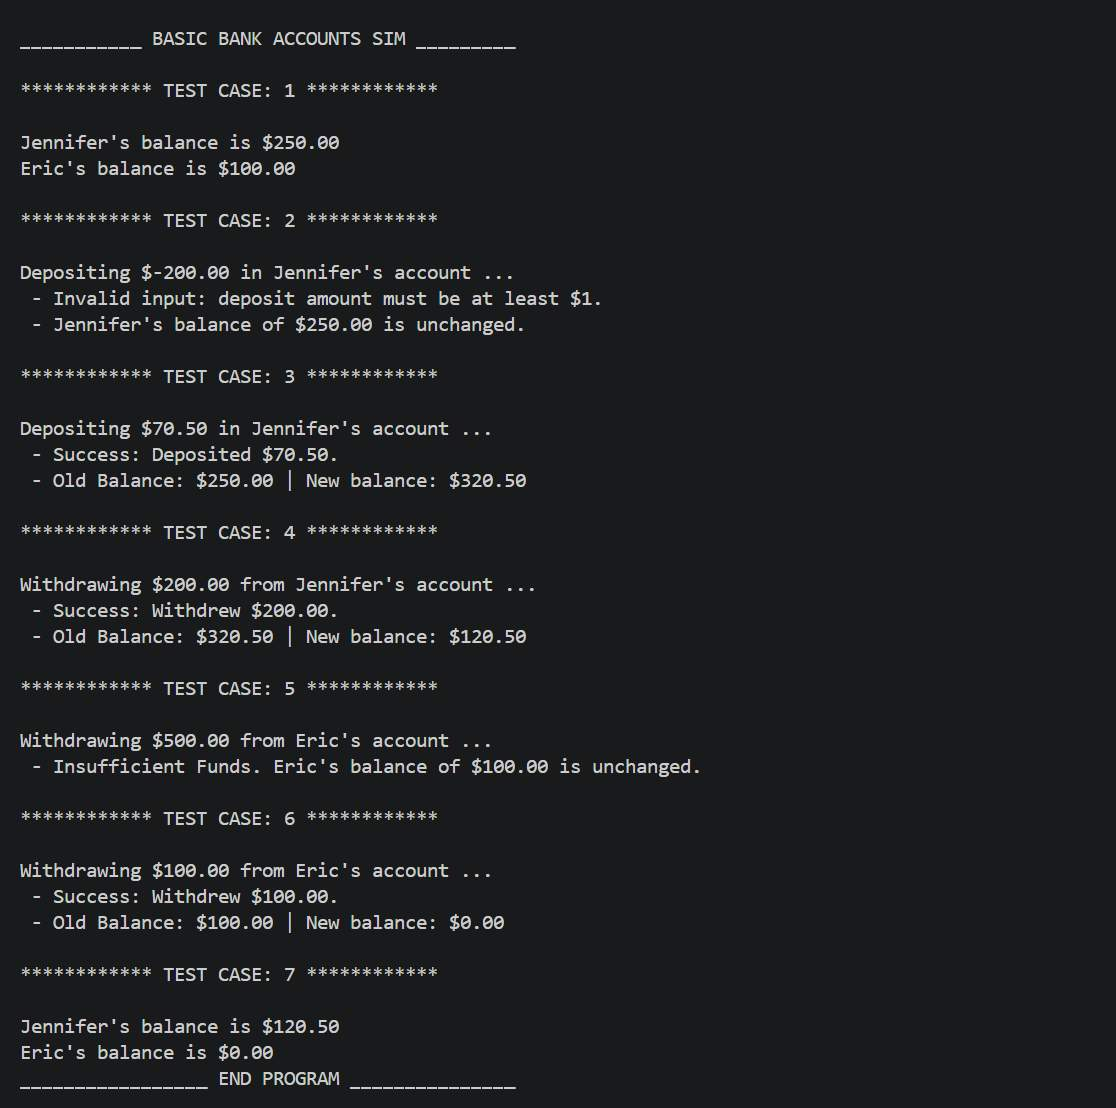
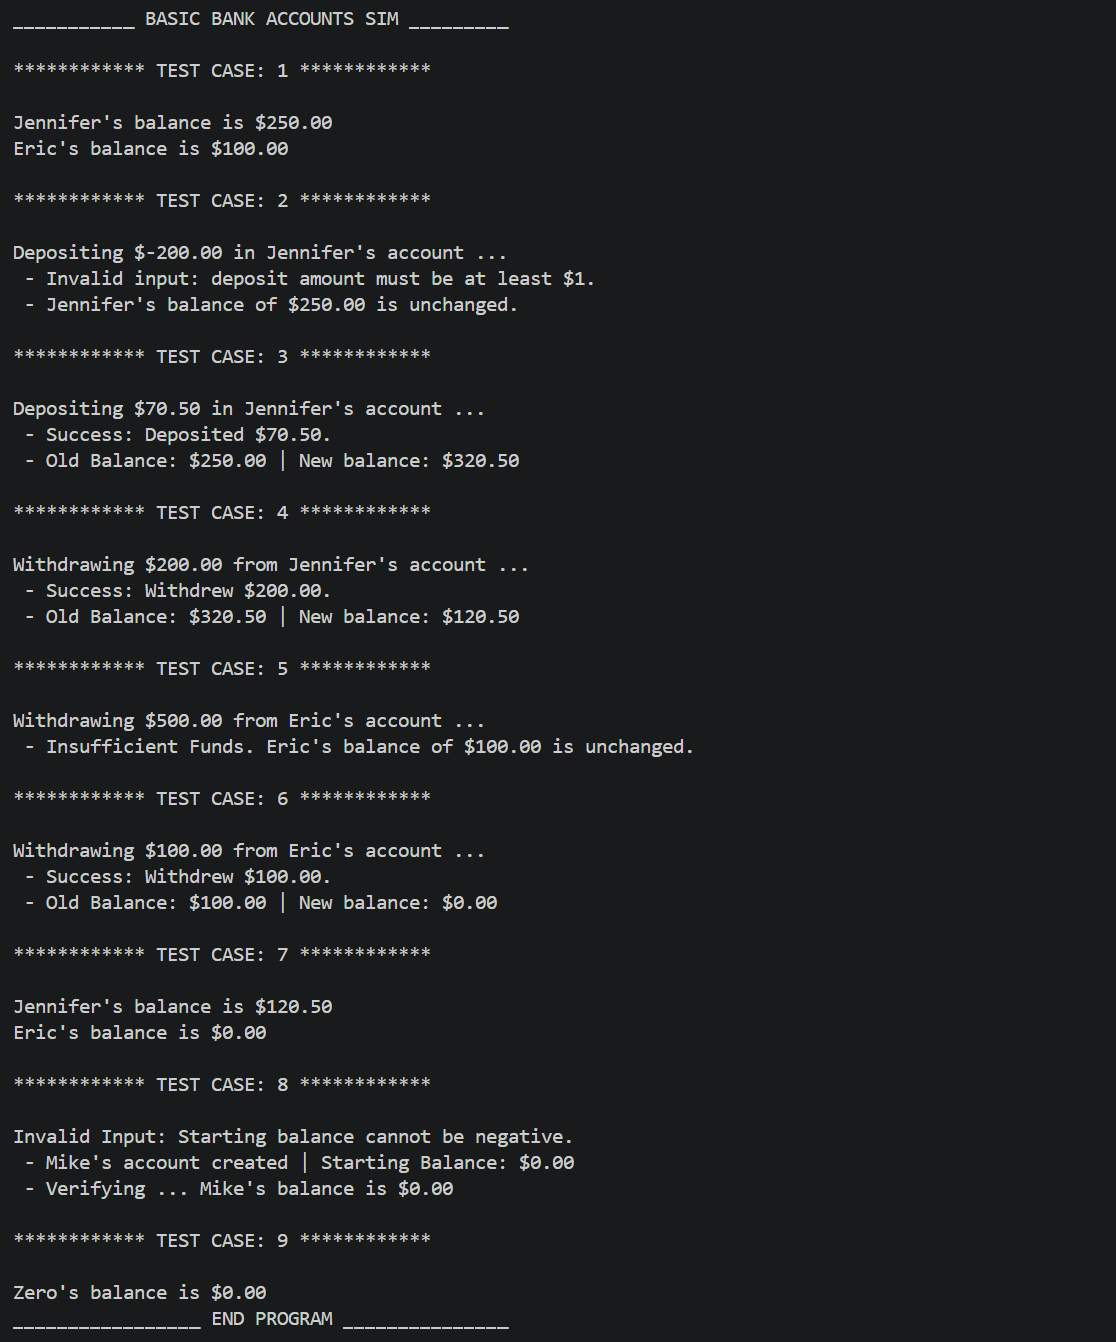
feat(courses/CIS251__Cpp): wk 8 assmt BankAccount: finalize and submit

Changed region(s): [[0.0, 0.0, 0.6093, 0.8899], [0.0, 0.9206, 0.457, 1.0]]

diff --git a/courses/Semester_1_Fall_26/CIS251__Cpp_Programming/Week_08/06__Assignments/Programming-Assignment/106__BankAccountSim-FINAL.cpp b/courses/Semester_1_Fall_26/CIS251__Cpp_Programming/Week_08/06__Assignments/Programming-Assignment/106__BankAccountSim-FINAL.cpp
@@ -22,14 +22,17 @@
  * @version 1.06
  *
  * @par Notes
- * -
+ * - Uses hard-coded transaction values for testing.
+ * - Negative opening balances are rejected and set to zero.
+ * - Does not implement authentication, an interactive ATM menu, or
+ *   transaction history; those are beyond the assignment scope.
  *
  * @par Lessons Learned
- * -
- *
- * @note Uses hard-coded transaction values for testing; does not implement
- *       authentication, an interactive ATM menu, or transaction history,
- *       as those are beyond the scope of the assignment.
+ * - A constructor cannot prevent object creation by returning early;
+ *   invalid initialization must either be corrected, throw an exception,
+ *   or be handled by the caller.
+ * - Keep user-interface/menu logic separate from account behavior so the
+ *   BankAccount class remains focused on encapsulation and balance rules.
  *
  * @see https://github.com/codewizard13
  */
@@ -63,23 +66,30 @@ public:
    *
    * @param account_holder Name of the account holder.
    * @param balance Opening balance in USD.
-   * @warning A negative opening balance is currently accepted.
+   * @note A negative opening balance is rejected and set to zero.
    */
   BankAccount(string account_holder, double balance)
   {
+
+    this->account_holder = account_holder;
+
+    // Only allow non-negative starting balance
     if (balance < 0)
     {
+      this->balance = 0.0;
       cout << "Invalid Input: Starting balance cannot be negative.\n";
-      return;
+      cout << " - " << this->account_holder << "'s account created | Starting Balance: $0.00\n";
     }
-    this->account_holder = account_holder;
-    this->balance = balance;
+    else
+    {
+      this->balance = balance;
+    }
   }
 
   /**
-   * @brief Gets the account holder's name
+   * @brief Gets the account holder's name.
    *
-   * @return The account holder's name
+   * @return The account holder's name.
    */
   string getAccountHolder()
   {
@@ -225,7 +235,19 @@ int main()
   eric_acct.showBalance();
 
   // TEST CASE 8: Negative starting balance
+  cout << "\n************ TEST CASE: 8 ************\n\n";
   BankAccount mike_acct("Mike", -10);
+
+  // Get balance - it should be zero
+  cout << " - Verifying ... ";
+  mike_acct.showBalance();
+
+  // TEST CASE 9: Zero dollar starting balance
+  cout << "\n************ TEST CASE: 9 ************\n\n";
+  BankAccount zero_acct("Zero", 0);
+
+  // Get balance - it should be zero
+  zero_acct.showBalance();
 
   cout << "_________________ END PROGRAM _______________\n\n";
 

diff --git a/courses/Semester_1_Fall_26/CIS251__Cpp_Programming/Week_08/06__Assignments/Programming-Assignment/04__AI-Assistance-Log.md b/courses/Semester_1_Fall_26/CIS251__Cpp_Programming/Week_08/06__Assignments/Programming-Assignment/04__AI-Assistance-Log.md
@@ -3,7 +3,13 @@
 I used **Perplexity** to,
 
 - Clarify the likely scope of the Week 8 OOP assignment after initially envisioning an overly large ATM-style program.
+
 - Research file-header comment formatting best practices and implement Doxygen-style file header comments based on that research.
+
 - Evaluate the time cost of hard-coded versus input-based test-case demonstrations.
+
+- Proofread and validate code, comments, test results, and documentation for grammar, factual accuracy, and formatting consistency.
+
+- Brainstorm additional boundary and validation test cases.
 
 I independently verified all results and performed all code implementation, compilation, testing, and final decisions.
